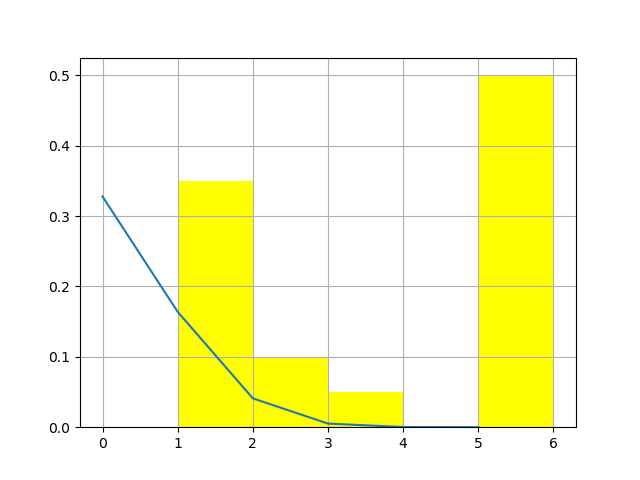
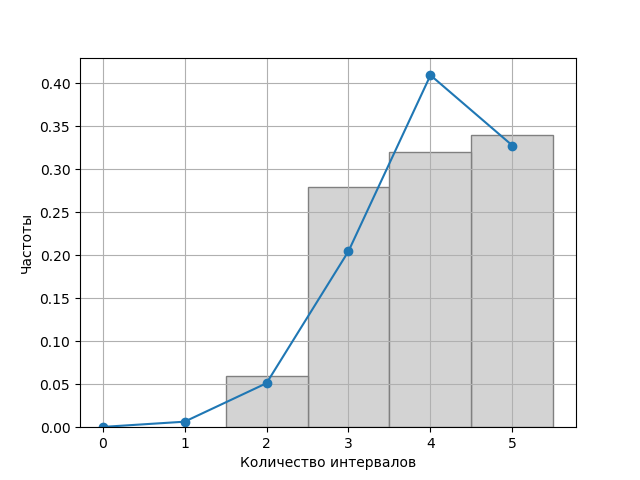
lab3 Fixed standard distribution and output

diff --git a/3/algorithms.py b/3/algorithms.py
@@ -4,15 +4,15 @@ import sympy as sp
 import collections as col
 import scipy.integrate as integrate
 import file_functions as ff
-    
+
 
 # Биномиальный закон распределения
 def binomial_distribution(m, k, p):
     return sp.binomial(m, k) * p**k * (1 - p)**(m - k)
 
 
-def r(n, k, p):
-    return ((n - k) / (k + 1)) * (p / (1 - p))
+def r(m, k, p):
+    return ((m - k) / (k + 1)) * (p / (1 - p))
 
 
 # Стандартный алгоритм с рекуррентными формулами
@@ -21,25 +21,24 @@ def recurrence_formulas_alg(n, m, p):
     # Количество операций
     operations_count = 8 + 4 * n
     # Вероятности случайной величины из m интервалов
-    P0 = [binomial_distribution(m, 0, p)]
-    # Число, содержащееся в интервале m
-    M = random.uniform(0, 1)
-    for k in range(0, m):
-        M -= P0[k]
-        P0.append(P0[k] * r(m, k + 1, p))
+    P = [binomial_distribution(m, i, p) for i in range(m + 1)]
     # Генерация чисел, принадлежащих распределению и попаданию в интервал из m
     for _ in range(n):
         M = random.uniform(0, 1)
+        Pk = P[0]
         k = 0
-        P = P0[0]
         # Проверка попадания в интервал
-        while k < m and 0 <= M:
-            M -= P
-            k += 1
-            P *= r(m, k, p)
+        search = True
+        while search:
+            M -= Pk
+            if M < 0:
+                search = False
+            else:
+                Pk *= r(m, k, p)
+                k += 1
             operations_count += 9
         result.append(k) 
-    return result, operations_count, P0
+    return result, operations_count, P, m
 
 
 # Закон распределения Пуассона
@@ -54,6 +53,12 @@ def poisson_alg(n, lambd):
     L = int(lambd) 
     # Вероятности случайной величины из n интервалов
     P = [poisson_distribution(i, L) for i in range(n)]
+    # Количество возможных реализаций моделируемой величины
+    m = 0
+    for i in range(len(P)):
+        #if n * P[i] <= 1:
+        if 100 * P[i] <= 1:
+            m += 1
     Q = sum(P[:L + 1])
     operations_count = 4 + L + 9 * n
     # Генерация чисел, принадлежащих распределению и попаданию в интервал из n
@@ -73,28 +78,22 @@ def poisson_alg(n, lambd):
                 M += P[k]
                 operations_count += 2
         result.append(k)
-    return result, operations_count, P
+    return result, operations_count, P, m
 
 
 # Тест критерия типа хи-квадрат
-def chi2_test(sequence, P, alpha, plot=False, plot_name="chi2_test_histogram.png"):
-    n = len(sequence)
-    # Количество возможных реализаций моделируемой величины
-    implement_count = 0
-    for i in range(len(P)):
-        #if n * P[i] <= 1:
-        if 100 * P[i] <= 1:
-            implement_count += 1
-    interval_hits = col.Counter(sequence)
+def chi2_test(sequence, P, m, alpha, plot=False, plot_name="chi2_test_histogram.png"):
     # Относительные частоты попадания в интервал
     v = []
     intervals = []
+    interval_hits = col.Counter(sequence)
+    n = len(sequence)
     for hit in interval_hits:
         v.append(interval_hits[hit] / n)
         intervals.append(hit)
     # Расчёт значения статистики критерия хи-квадрат
-    S = n * sum((interval_hits[i] / n - P[i])**2 / P[i] for i in range(implement_count))
-    r = implement_count - 1
+    S = n * sum((interval_hits[i] / n - P[i])**2 / P[i] for i in range(m + 1))
+    r = m - 1
     integral_res = integrate.quad(lambda S: S**(r / 2 - 1) * math.exp(-S / 2), S, math.inf)[0]
     S_alpha = integral_res / (2**(r / 2) * math.gamma(r / 2))
     passed = alpha < S_alpha
@@ -102,4 +101,4 @@ def chi2_test(sequence, P, alpha, plot=False, plot_name="chi2_test_histogram.png
         theor_intervals = [i for i in range(max(intervals) + 1)] 
         theor_v = P[:max(intervals) + 1]
         ff.draw_histogram(plot_name, intervals, v, theor_intervals, theor_v)
-    return S_alpha, implement_count, v, interval_hits, passed
+    return S_alpha, v, interval_hits, passed

diff --git a/3/main.py b/3/main.py
@@ -1,7 +1,5 @@
 import algorithms as alg
 
-NONE = 0
-
 INPUT_PATH  = "input/"
 OUTPUT_PATH = "output/"
 
@@ -9,8 +7,8 @@ OUTPUT_PATH = "output/"
 TESTS_FILENAME = INPUT_PATH + "tests_settings.txt"
 
 # Названия файлов выходных данных
-RECURRENCE_FORMULAS_RESULT = OUTPUT_PATH + "recurrence_formulas_test_result.txt"
-POISSON_RESULT             = OUTPUT_PATH + "poisson_test_result.txt"
+RECURRENCE_FORMULAS_RESULT = OUTPUT_PATH + "recurrence_formulas_result.txt"
+POISSON_RESULT             = OUTPUT_PATH + "poisson_result.txt"
 
 # Названия файлов выходных данных гистограмм
 RECURRENCE_FORMULAS_HIST = OUTPUT_PATH + "recurrence_formulas_histogram.png"
@@ -21,14 +19,14 @@ def main():
     # Чтение данных тестов
     n, m, p, lambd, alpha, precision = alg.ff.read_tests_settings(TESTS_FILENAME)
     # Тест критерия типа хи-квадрат для Биномиального распределения
-    sequence, operations_count, P = alg.recurrence_formulas_alg(n, m, p)
-    S_alpha, implement_count, v, interval_hits, passed = alg.chi2_test(sequence, P, alpha, plot=True, plot_name=RECURRENCE_FORMULAS_HIST) 
-    alg.ff.write_chi2_results(RECURRENCE_FORMULAS_RESULT, precision, sequence, P, alpha, n, m, p, NONE, 
+    sequence, operations_count, P, implement_count = alg.recurrence_formulas_alg(n, m, p)
+    S_alpha, v, interval_hits, passed = alg.chi2_test(sequence, P, implement_count, alpha, plot=True, plot_name=RECURRENCE_FORMULAS_HIST) 
+    alg.ff.write_chi2_results(RECURRENCE_FORMULAS_RESULT, precision, sequence, P, alpha, n, m, p, alg.ff.NONE, 
                               S_alpha, implement_count, v, interval_hits, operations_count, passed)
     # Тест критерия типа хи-квадрат для распределения Пуассона
-    sequence, operations_count, P = alg.poisson_alg(n, lambd)
-    S_alpha, implement_count, v, interval_hits, passed = alg.chi2_test(sequence, P, alpha, plot=True, plot_name=POISSON_HIST) 
-    alg.ff.write_chi2_results(POISSON_RESULT, precision, sequence, P, alpha, n, NONE, NONE, lambd, 
+    sequence, operations_count, P, implement_count = alg.poisson_alg(n, lambd)
+    S_alpha, v, interval_hits, passed = alg.chi2_test(sequence, P, implement_count, alpha, plot=True, plot_name=POISSON_HIST) 
+    alg.ff.write_chi2_results(POISSON_RESULT, precision, sequence, P, alpha, n, alg.ff.NONE, alg.ff.NONE, lambd, 
                               S_alpha, implement_count, v, interval_hits, operations_count, passed)
 
 

diff --git a/3/file_functions.py b/3/file_functions.py
@@ -2,17 +2,16 @@ import sys
 import numpy as np
 import matplotlib.pyplot as plt
 
+# Отсутствие параметра для вывода результата
+NONE = 0
+
 
 def draw_histogram(picturename, intervals, v, theor_intervals, theor_v):
-    fig = plt.figure()
-    ax = fig.add_subplot()
-    ax.plot(theor_intervals, theor_v)
-    plt.bar(intervals, v, width=1, align="edge", color="yellow")
+    plt.xlabel("Количество интервалов")
+    plt.ylabel("Частоты")
     plt.xticks(np.arange(max(intervals) + 2))
-    #title = ""
-    #plt.title(title)
-    #plt.xlabel("")
-    #plt.ylabel("")
+    plt.plot(theor_intervals, theor_v, marker="o")
+    plt.bar(intervals, v, width=1, align="center", edgecolor="grey", color="lightgrey")
     plt.grid(True)
     plt.savefig(picturename)
     plt.clf()
@@ -23,7 +22,7 @@ def read_tests_settings(filename):
     try:
         f = open(filename, "r")
     except IOError:
-        print("Невозможно открыть файл: ", filename)
+        print("Невозможно открыть файл: {0}".format(filename))
         sys.exit()
     # Длина поселдовательности
     n = int(f.readline())
@@ -52,11 +51,11 @@ def write_chi2_results(filename, precision, sequence, P, alpha, n, m, p, lambd,
         f.write("Параметры распределения Пуассона (lambda): {0}\n".format(lambd))
     f.write("Последовательность: {0}\n".format(sequence))
     f.write("Вероятности: {0}\n".format([round(i, precision) for i in P]))
+    f.write("Сумма вероятностей: {0}\n".format(round(sum(P), precision)))
     f.write("Количество попаданий в интервал: {0}\n".format(dict(interval_hits)))
     f.write("Относительные частоты попадания в интервал (v): {0}\n".format(str(v).strip('[]')))
     f.write("Степени свободы (r): {0}\n".format(implement_count - 1))
     f.write("Количество операций: {0}\n".format(operations_count))
-
     f.write("\nЗначение P{{S > S*}}: {0}\n".format(round(S_alpha, precision)))
     if passed == True:
         f.write("Гипотеза не отвергается: P{{S > S*}} > alpha = {0} > {1}\n".format(round(S_alpha, precision), alpha))
